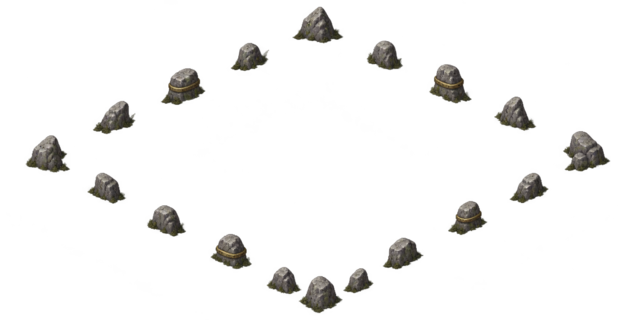
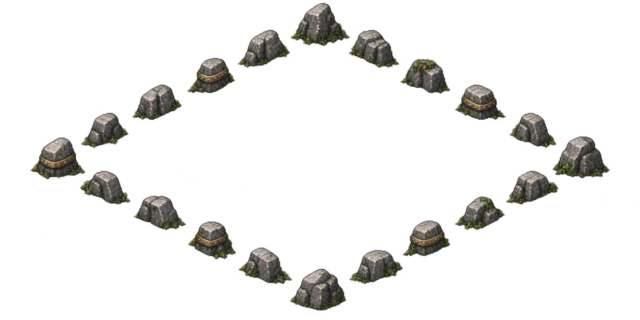
Paint expansion duel ring source art

Changed region(s): [[0.0312, 0.0, 0.9688, 0.9688]]

diff --git a/docs/notes/expansion-2-art-prompts.md b/docs/notes/expansion-2-art-prompts.md
@@ -25,3 +25,18 @@ small gold laurel wreath. Distinct whole silhouettes with transparent padding.
 ```text
 Repository hpatter9/legends-of-the-fall; branch art/expansion-2; output art-source/expansion/frames.png. Paint ONE 1280x256 transparent PNG, five equal 256x256 cells in one row, no text. Match the existing dark fantasy painted pixel-art UI: aged brass and gold, dark outlines, restrained highlights and dark crimson accents. Cells 1–3: matching thin square brass portrait frames, fully transparent centres, bearing exactly ONE, TWO, THREE deep diagonal claw scars respectively, dark red beneath torn brass. Cell 4: aged gold filigree square heirloom frame, transparent centre, small family crest at top, exactly three empty notches along bottom. Cell 5: one gold signet ring with red stone, centred and filling about 60% of its cell. Transparent background and padding; no lettering, no extra objects.
 ```
+
+## Duel ring
+
+```text
+Repository hpatter9/legends-of-the-fall; branch art/expansion-2;
+output art-source/expansion/duel-ring.png. Paint ONE 640×320 transparent
+image in the game's dark medieval fantasy painterly pixel-art style.
+Use docs/samples/nemesis-4/duel-fight-412.png for the board angle.
+A square ring of low weathered grey menhirs on a 2:1 isometric tactics
+board, outlining a 5×5-tile square (each conceptual tile 128×64).
+Four straight diagonal sides, hollow transparent centre and exterior.
+Stones about a quarter tile high, occasional aged brass bands and moss
+at their feet. Stones only on the perimeter; no ground, tiles or text.
+Muted steel grey, aged brass and moss green, upper-left lighting.
+```

diff --git a/docs/TASKS.md b/docs/TASKS.md
@@ -1250,3 +1250,10 @@ UI-007 final 0.190.0 validation complete: current Last Stand Auto, pause/resume,
 
 EXPANSION-2-FRAMES — Codex; art/expansion-2; /workspace/legends-of-the-fall. Owner requests one five-cell 1280x256 transparent source sheet at art-source/expansion/frames.png, matching existing style, added to Expansion art 2 PR #464. Scope: that source image plus required prompt/task/handoff records. Completion: visual review, exact size and transparent centres/background, commit and push to existing PR. No runtime changes.
 - **EXPANSION-2-FRAMES result:** five-cell source sheet painted and visually reviewed; dimensions, RGBA, binary alpha, padding and empty portrait centres verified. Ready for review in PR #464. See [handoff](notes/expansion-2-art.md). Runtime checks not run (source art only).
+
+### EXPANSION-2-DUEL-RING — Repaint duel perimeter
+
+- Owner: Codex; branch `art/expansion-2`; worktree `/workspace/legends-of-the-fall`.
+- Scope: one source image `art-source/expansion/duel-ring.png`, prompt and handoff records.
+- Completion: 640×320 transparent PNG; hollow 5×5 square at 2:1 isometric angle, low grey menhirs, occasional brass bands and moss, no ground/text; added to PR #464.
+- Status: complete; final image visually inspected, 640×320 RGBA and transparent centre/exterior verified. Source art only; no runtime checks. [Handoff](notes/expansion-2-duel-ring.md).

diff --git a/docs/notes/expansion-2-duel-ring.md b/docs/notes/expansion-2-duel-ring.md
@@ -1,0 +1,13 @@
+# Expansion art 2 — Duel ring
+
+Owner: Codex. Branch: `art/expansion-2`; worktree: `/workspace/legends-of-the-fall`.
+Scope: one source image, `art-source/expansion/duel-ring.png`, with required prompt and task records.
+
+Repainted the hollow square perimeter with low weathered grey menhirs,
+several aged brass bands and moss at their feet. Checked the board angle
+against `docs/samples/nemesis-4/duel-fight-412.png`. No ground or text.
+Generated with ChatGPT image generation and resized to 640×320.
+
+Validation: final image visually inspected; ImageMagick verified 640×320
+RGBA and fully transparent centre/corner pixels. No runtime checks run:
+source art only. Ready for review in Expansion art 2, PR #464.
